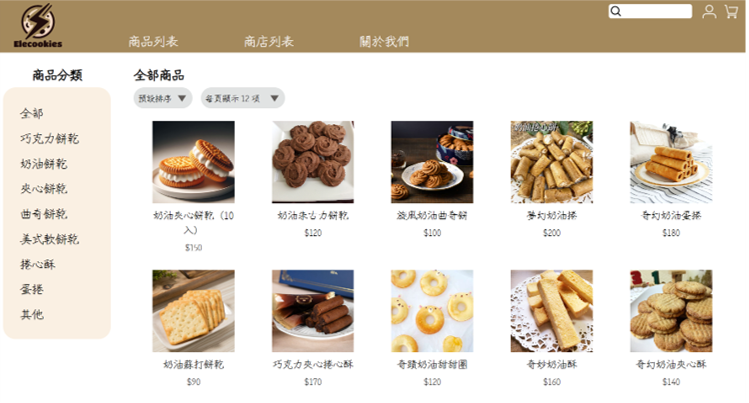
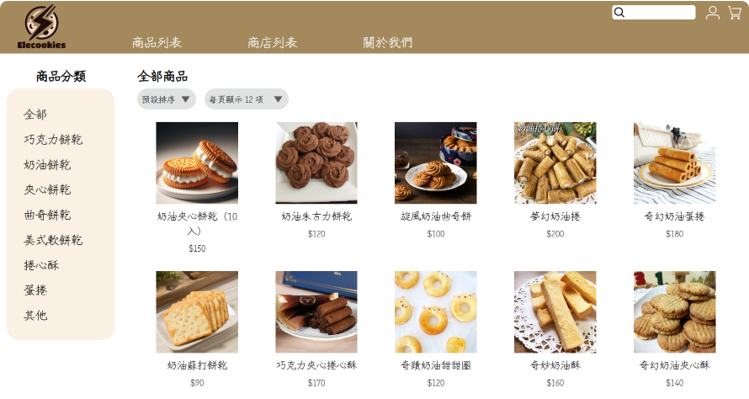
[style] Updated style.css and img

diff --git a/src/pages/Portfolio.tsx b/src/pages/Portfolio.tsx
@@ -2,12 +2,12 @@ import { FaCode } from "react-icons/fa";
 import { PiPawPrintFill } from "react-icons/pi";
 import { SiCplusplus, SiCsharp, SiPython, SiJavascript, SiTypescript, SiHtml5, SiCss3, SiReact } from "react-icons/si";
 import { RiArrowRightDoubleLine } from "react-icons/ri";
-import SIMPLE_PPT_IMG from "../assets/SimplePPT.jpg"
-import DATA_VIS_IMG from "../assets/DataVis.jpg"
-import CT_AND_CE_IMG from "../assets/ComputerTypographyAndCharacterEncoding.png"
-import BOXBOB_IMG from "../assets/BoxBob.png"
-import REDDIT_IMG from "../assets/RedditSentimentAnalysis.png"
-import ELECOOKIES_IMG from "../assets/Elecookies.png"
+import SIMPLE_PPT_IMG from "../assets/SimplePPT.png";
+import DATA_VIS_IMG from "../assets/DataVis.png";
+import CT_AND_CE_IMG from "../assets/ComputerTypographyAndCharacterEncoding.png";
+import BOXBOB_IMG from "../assets/BoxBob.png";
+import REDDIT_IMG from "../assets/RedditSentimentAnalysis.png";
+import ELECOOKIES_IMG from "../assets/Elecookies.png";
 
 
 function Portfolio() {

diff --git a/src/style.css b/src/style.css
@@ -205,9 +205,8 @@ button:focus-visible {
 }
 
 .portfolio-block img {
-  width: 25rem;
+  width: 30rem;
   margin-right: 2rem;
-  border-radius: 5px;
   object-fit: contain;
 }
 
